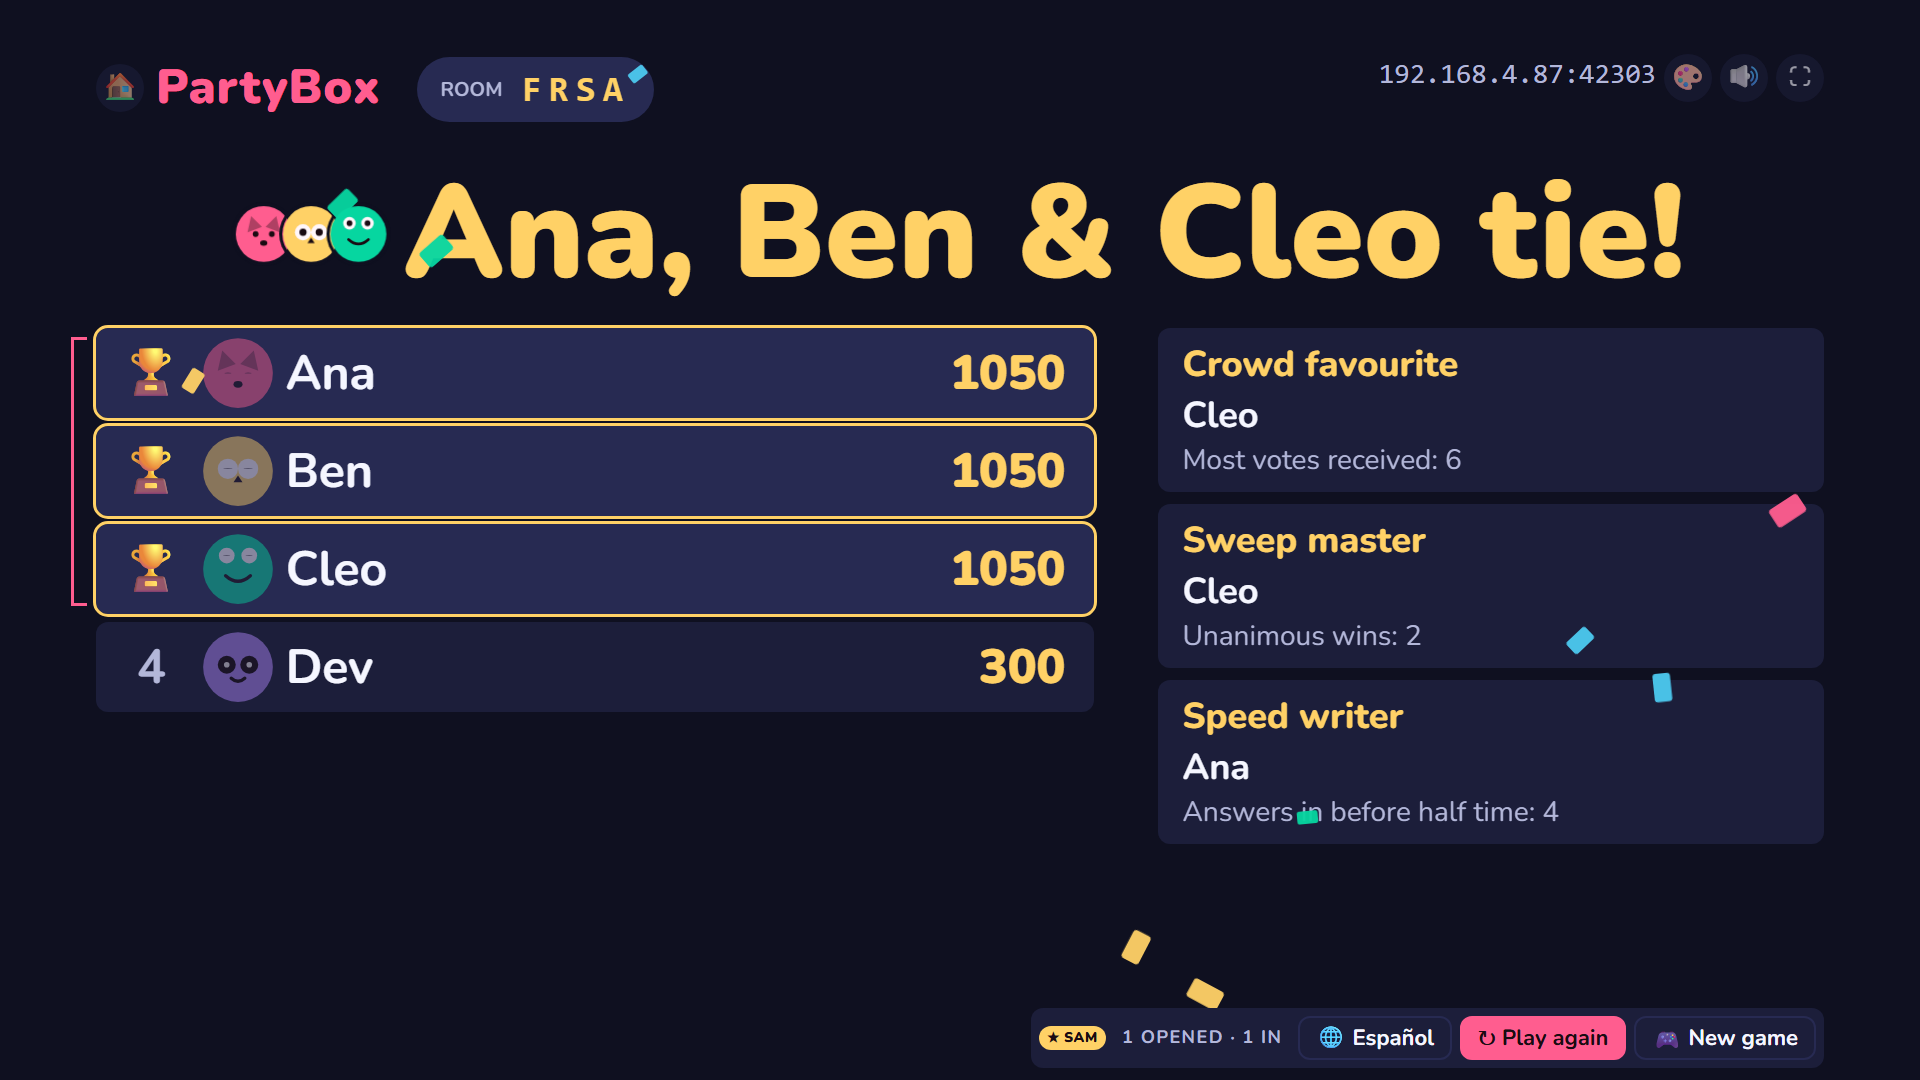
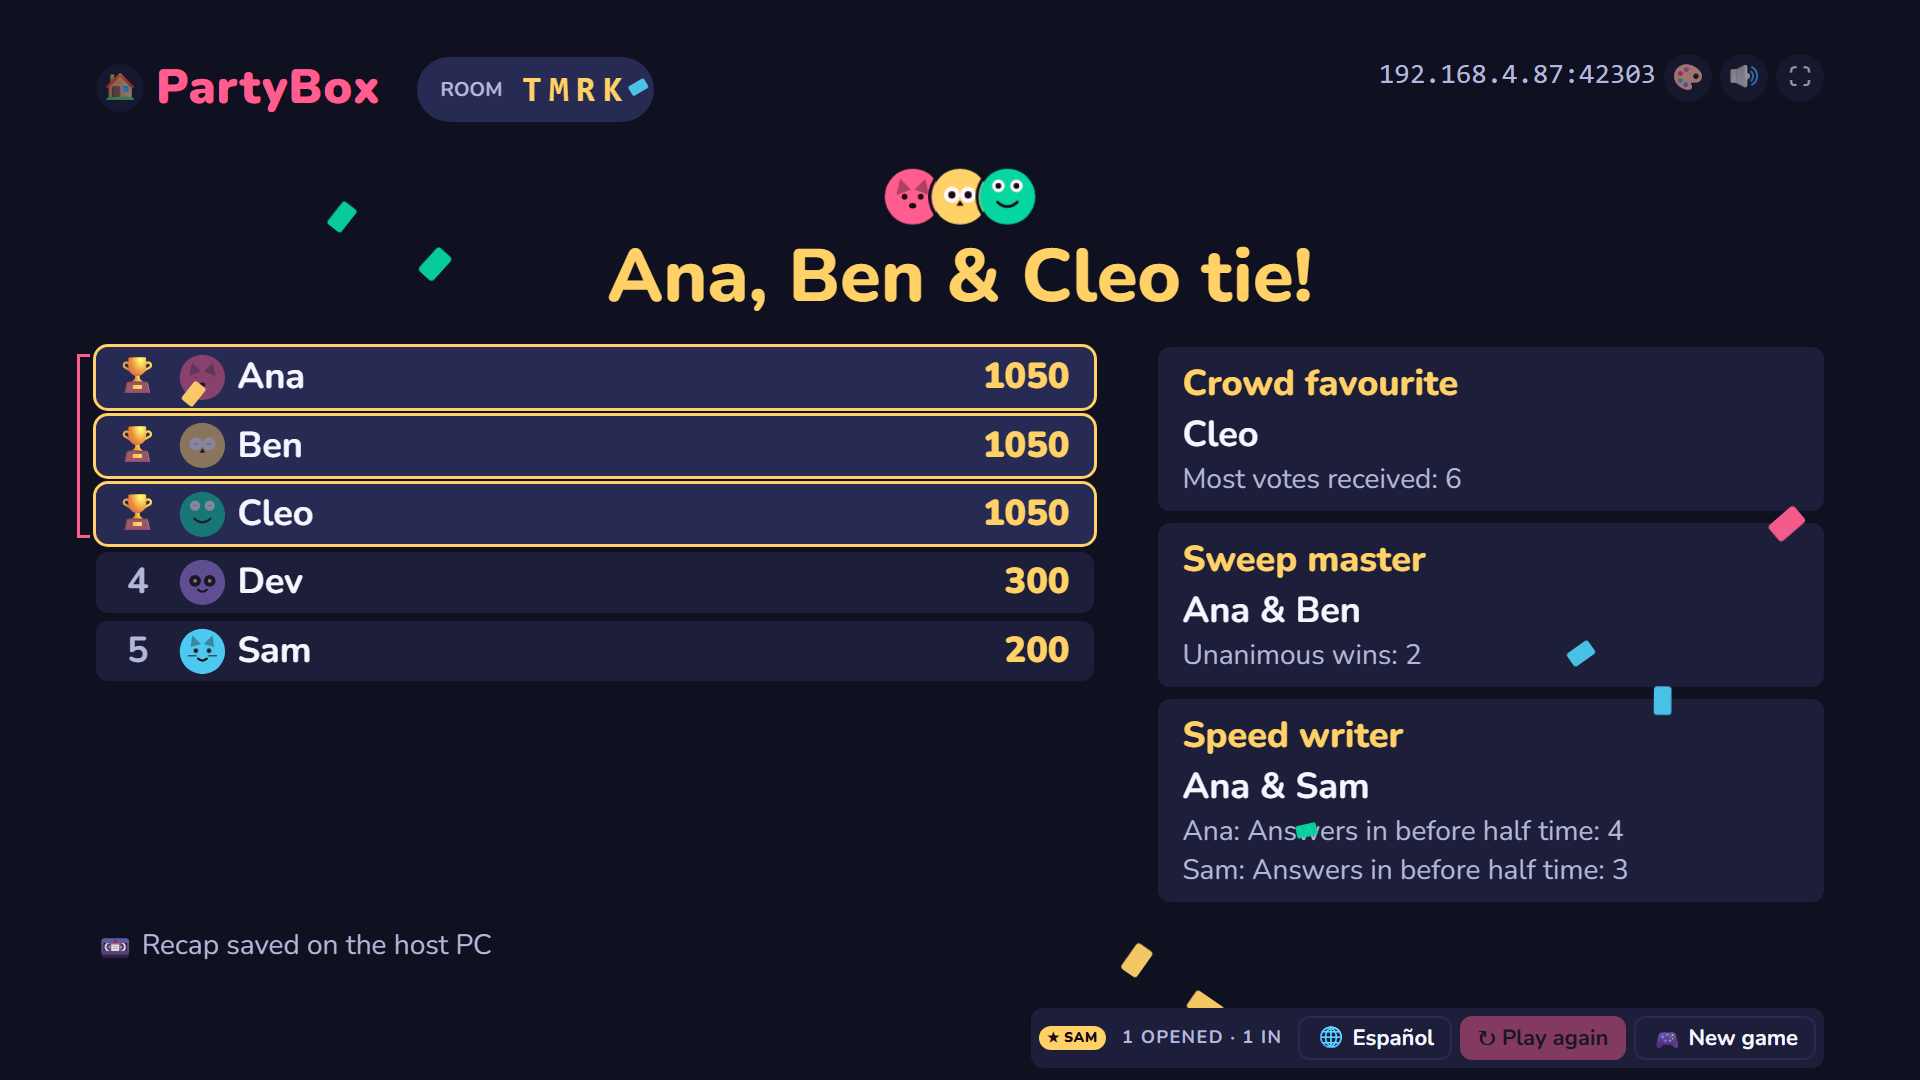
design(results): reviewer's DESIGN CHANGES on b093ccda
- A grouped award keeps its line only when every winner's matches ('Most
  votes received: 6' is one player's number); otherwise each winner keeps
  theirs (TV card lines, the phone's list).
- A shared award on your own phone says who shares it ('Your speed writer ·
  with Ana' / 'Tu pluma veloz · con Ana').
- Phone award chips are one row that scrolls sideways: wrapped rows pushed a
  three-way tie's last winner under the SE fold.
- Your own row is centred again once the title has settled (the place line
  and chips arrive after the first paint and shrank the body: 5th place sat
  under 'more below'); not if the player touched the list meanwhile. The
  screen-reader award list no longer adds a pixel under the board.
- TV: on a tie the faces sit centred above the headline, and 3+ tied names
  take the h1 size (a two-line Spanish tie pushed the last award under the
  host bar).
- POST /api/dev/results (dev only): a results screen as given, for captures
  of ties and shared awards no fixture produces; engine dev:results + test.
- capture-results-tie.ts uses it: 3-way tie, a shared award, an award whose
  line differs per winner, and Sam (this phone) sharing one.

diff --git a/packages/client/src/controller/Results.tsx b/packages/client/src/controller/Results.tsx
@@ -33,7 +33,28 @@ export function Results({ controller, room, me }: ResultsProps): JSX.Element {
   const lang = useLang();
   useEffect(() => {
     // I-456 B: to the middle of the list, not its nearest edge (which was half under the footer)
-    list.current?.querySelector('[aria-current="true"]')?.scrollIntoView({ block: 'center' });
+    const toMe = (): void =>
+      list.current?.querySelector('[aria-current="true"]')?.scrollIntoView({ block: 'center' });
+    toMe();
+    // Again once the sticky title has settled (the place line and the award chips arrive after the
+    // first paint and shrink the body): a 5th place otherwise sat under the "more below" fade. Not
+    // if the player has touched the list meanwhile.
+    let moved = false;
+    let scroller: HTMLElement | null = list.current?.parentElement ?? null;
+    while (scroller && !/(auto|scroll)/.test(getComputedStyle(scroller).overflowY))
+      scroller = scroller.parentElement;
+    const touched = (): void => {
+      moved = true;
+    };
+    const events = ['pointerdown', 'wheel', 'touchstart', 'keydown'] as const;
+    for (const e of events) scroller?.addEventListener(e, touched, { passive: true });
+    const again = setTimeout(() => {
+      if (!moved) toMe();
+    }, 700);
+    return () => {
+      clearTimeout(again);
+      for (const e of events) scroller?.removeEventListener(e, touched);
+    };
   }, []);
   const rows = scoreboardRows(room);
   const mine = myRow(room, me.id);
@@ -45,8 +66,14 @@ export function Results({ controller, room, me }: ResultsProps): JSX.Element {
   const awardsForMe = groupAwards(room.results?.results.awards ?? []).sort(
     (x, y) => Number(mineIn(y)) - Number(mineIn(x)),
   );
-  const winnersOf = (a: { playerIds: string[] }): string =>
-    joinNames(a.playerIds.map((id) => room.results?.players.find((p) => p.id === id)?.name ?? '?'));
+  const nameOf = (id: string): string =>
+    room.results?.players.find((p) => p.id === id)?.name ?? '?';
+  const winnersOf = (a: { playerIds: string[] }): string => joinNames(a.playerIds.map(nameOf));
+  // a shared award on my own phone says who shares it ("… with Kenji", tune-in's nit)
+  const sharedWith = (a: { playerIds: string[] }): string => {
+    const others = a.playerIds.filter((id) => id !== me.id).map(nameOf);
+    return others.length > 0 ? ` · ${t.results.sharedWith(joinNames(others))}` : '';
+  };
   // I-155 C: votes received per round, straight off the results payload.
   const myVotes = (
     (room.results?.results as { perRoundVotes?: Record<string, number[]> } | undefined)
@@ -82,6 +109,7 @@ export function Results({ controller, room, me }: ResultsProps): JSX.Element {
                     <strong>
                       {t.results.yourAward(serverText(a.title, lang, room.results?.gameId))}
                     </strong>
+                    {sharedWith(a)}
                   </span>
                 ) : (
                   <span key={`${a.id}|${a.title}`} className={styles.awardChip}>
@@ -153,9 +181,12 @@ export function Results({ controller, room, me }: ResultsProps): JSX.Element {
               <span>
                 {/* I-155 A: the screen already knows whose hand it is in — the award should too. */}
                 {mineIn(a) ? (
-                  <strong>
-                    {t.results.yourAward(serverText(a.title, lang, room.results?.gameId))}
-                  </strong>
+                  <>
+                    <strong>
+                      {t.results.yourAward(serverText(a.title, lang, room.results?.gameId))}
+                    </strong>
+                    {sharedWith(a)}
+                  </>
                 ) : (
                   <>
                     <strong>{serverText(a.title, lang, room.results?.gameId)}</strong> ·{' '}
@@ -164,7 +195,14 @@ export function Results({ controller, room, me }: ResultsProps): JSX.Element {
                 )}
               </span>
               <span className="pb-muted pb-caption">
-                {serverText(a.description, lang, room.results?.gameId)}
+                {a.description !== null
+                  ? serverText(a.description, lang, room.results?.gameId)
+                  : a.perPlayer
+                      .map(
+                        (x) =>
+                          `${nameOf(x.playerId)}: ${serverText(x.description, lang, room.results?.gameId)}`,
+                      ) // prettier-ignore
+                      .join(' · ')}
               </span>
             </li>
           ))}

diff --git a/packages/e2e/src/design/capture-results-tie.ts b/packages/e2e/src/design/capture-results-tie.ts
@@ -1,9 +1,11 @@
 // Stills of the results screens after a three-way tie (tune-in's review): every tied winner named
 // in the headline, the gold outline on each of them, and one award card per award with all its
-// winners. Wisecrack's `done` fixture, with Ana, Ben and Cleo set level, is loaded and the VIP ends
-// the game; the TV and a phone (SE, English and Spanish) are shot.
+// winners — including a shared award no game's fixture produces (so the results are put on the
+// room as given, /api/dev/results), one whose line differs per winner, and "with …" on the phone
+// of a player who shares one. TV + a phone (SE), English and Spanish. Always pass --build after a
+// client change: without it the prebuilt client is served.
 // Usage: tsx packages/e2e/src/design/capture-results-tie.ts [--out <dir>] [--port 42303] [--build]
-import { mkdirSync, readFileSync } from 'node:fs';
+import { mkdirSync } from 'node:fs';
 import { join } from 'node:path';
 import { parseArgs } from 'node:util';
 import { chromium } from 'playwright';
@@ -46,15 +48,42 @@ async function run(browser: Browser, url: string, api: DevApi, lang: string): Pr
   await page.waitForSelector('[data-surface="controller"]');
   const sam: Phone = { device: 'iphone-se', context: page.context(), page, name: 'Sam', playerId: null }; // prettier-ignore
   await joinViaForm(sam, api, { avatarIndex: 2 });
-  await api.bots(3, 'idle');
   try {
-    await api.post('/api/dev/start', { gameId: 'wisecrack', seed: 4 });
-    const fixture = JSON.parse(
-      readFileSync(join(REPO_ROOT, 'games', 'wisecrack', 'fixtures', 'done.json'), 'utf8'),
-    ) as { scores: Record<string, number> };
-    fixture.scores = { 'p-ana': 1050, 'p-ben': 1050, 'p-cleo': 1050, 'p-dev': 300 };
-    await api.post('/api/dev/load-state', { gameId: 'wisecrack', state: fixture });
-    await api.post('/api/dev/vip', { action: 'end' });
+    const players = [
+      ['p-ana', 'Ana', 'fox'],
+      ['p-ben', 'Ben', 'owl'],
+      ['p-cleo', 'Cleo', 'frog'],
+      ['p-dev', 'Dev', 'panda'],
+    ].map(([id, name, avatarId]) => ({ id, name, avatarId }));
+    // Sam (this phone) shares an award too, so the phone shows "… with Ana"
+    const state = (await api.state()) as { room?: { vipId?: string | null } | null };
+    const me = state.room?.vipId ?? 'p-sam';
+    players.push({ id: me, name: 'Sam', avatarId: 'cat' });
+    const award = (id: string, title: string, description: string, playerId: string) => ({ id, title, description, playerId }); // prettier-ignore
+    await api.post('/api/dev/results', {
+      results: {
+        gameId: 'wisecrack',
+        players,
+        results: {
+          scores: { 'p-ana': 1050, 'p-ben': 1050, 'p-cleo': 1050, 'p-dev': 300, [me]: 200 },
+          ranking: [
+            { playerId: 'p-ana', score: 1050, rank: 1 },
+            { playerId: 'p-ben', score: 1050, rank: 1 },
+            { playerId: 'p-cleo', score: 1050, rank: 1 },
+            { playerId: 'p-dev', score: 300, rank: 4 },
+            { playerId: me, score: 200, rank: 5 },
+          ],
+          winnerIds: ['p-ana', 'p-ben', 'p-cleo'],
+          awards: [
+            award('crowd', 'Crowd favourite', 'Most votes received: 6', 'p-cleo'),
+            award('sweep', 'Sweep master', 'Unanimous wins: 2', 'p-ana'),
+            award('sweep', 'Sweep master', 'Unanimous wins: 2', 'p-ben'),
+            award('speed', 'Speed writer', 'Answers in before half time: 4', 'p-ana'),
+            award('speed', 'Speed writer', 'Answers in before half time: 3', me),
+          ],
+        },
+      },
+    });
     await settle(4500); // the board lands, the headline and awards follow
     await tv.screenshot({ path: join(OUT, `${lang}-tv-results.png`) });
     await page.screenshot({ path: join(OUT, `${lang}-iphone-se-results.png`) });

diff --git a/packages/client/src/tv/TvResults.tsx b/packages/client/src/tv/TvResults.tsx
@@ -73,7 +73,7 @@ export function TvResults({ room, lastView = null }: TvResultsProps): JSX.Elemen
     // (review-loop #184).
     <Stage>
       <div
-        className={`${styles.hero} ${crowned ? styles.crowned : 'pb-enter'}`}
+        className={`${styles.hero} ${crowned ? styles.crowned : 'pb-enter'} ${tied.length > 0 ? styles.tiedHero : ''}`}
         data-screen="results"
       >
         {winner ? <Avatar avatarId={winner.avatarId} size={72} /> : null}
@@ -86,7 +86,9 @@ export function TvResults({ room, lastView = null }: TvResultsProps): JSX.Elemen
             ))}
           </span>
         ) : null}
-        <BigText level={many || keepBoard ? 'h1' : 'display'} tone="accent">
+        {/* three or more tied names take the h1 size: at display size a Spanish tie wrapped to
+            two lines and pushed the last award under the host bar */}
+        <BigText level={many || keepBoard || tied.length >= 3 ? 'h1' : 'display'} tone="accent">
           {winnerLine(room, scoreless) || t.results.title}
         </BigText>
         {nobodyScored(room) && !scoreless ? (
@@ -124,7 +126,15 @@ export function TvResults({ room, lastView = null }: TvResultsProps): JSX.Elemen
                 <li key={`${a.id}|${a.title}`} className={styles.award}>
                   <span className={styles.awardTitle}>{said(a.title)}</span>
                   <span className={styles.awardWho}>{joinNames(a.playerIds.map(nameOf))}</span>
-                  <span className="pb-muted pb-caption">{said(a.description)}</span>
+                  {a.description !== null ? (
+                    <span className="pb-muted pb-caption">{said(a.description)}</span>
+                  ) : (
+                    a.perPlayer.map((x) => (
+                      <span key={x.playerId} className="pb-muted pb-caption">
+                        {nameOf(x.playerId)}: {said(x.description)}
+                      </span>
+                    ))
+                  )}
                 </li>
               ))}
             </ul>

diff --git a/packages/client/src/controller/results-rows.ts b/packages/client/src/controller/results-rows.ts
@@ -103,12 +103,15 @@ export function joinNames(names: string[]): string {
 }
 
 /** One award, everyone who won it: a tie gives the award to each tied player, and a card per
- *  player repeated the award (and collided on its key, echo/imposter play-tests). */
+ *  player repeated the award (and collided on its key, echo/imposter play-tests). A description
+ *  often carries the winner's own number ("Most votes received: 6"): it stays the card's line only
+ *  when every winner's reads the same, else each winner keeps theirs (`perPlayer`). */
 export interface AwardGroup {
   id: string;
   title: string;
-  description: string;
+  description: string | null;
   playerIds: string[];
+  perPlayer: { playerId: string; description: string }[];
 }
 
 export function groupAwards(awards: readonly GameAward[]): AwardGroup[] {
@@ -116,9 +119,13 @@ export function groupAwards(awards: readonly GameAward[]): AwardGroup[] {
   for (const a of awards) {
     const key = `${a.id}|${a.title}`;
     const group = groups.get(key);
-    if (!group)
-      groups.set(key, { id: a.id, title: a.title, description: a.description, playerIds: [a.playerId] }); // prettier-ignore
-    else if (!group.playerIds.includes(a.playerId)) group.playerIds.push(a.playerId);
+    if (!group) {
+      groups.set(key, { id: a.id, title: a.title, description: a.description, playerIds: [a.playerId], perPlayer: [{ playerId: a.playerId, description: a.description }] }); // prettier-ignore
+    } else if (!group.playerIds.includes(a.playerId)) {
+      group.playerIds.push(a.playerId);
+      group.perPlayer.push({ playerId: a.playerId, description: a.description });
+      if (group.description !== a.description) group.description = null;
+    }
   }
   return [...groups.values()];
 }

diff --git a/packages/engine/src/room.ts b/packages/engine/src/room.ts
@@ -220,6 +220,20 @@ function dispatch(room: RoomState, event: RoomEvent, deps: EngineDeps): ApplyRes
         effects: [{ type: 'push' }],
       };
     }
+    case 'dev:results': {
+      // design captures only: the room's results as given, if they look like results
+      const r = event.results as Partial<RoomState['results']> | null;
+      const ok =
+        !!r && typeof r.gameId === 'string' && Array.isArray(r.players) &&
+        !!r.results && Array.isArray(r.results.ranking) && Array.isArray(r.results.winnerIds); // prettier-ignore
+      if (!ok || !deps.games[(r as { gameId: string }).gameId])
+        return { room, effects: [{ type: 'log', level: 'warn', text: 'dev:results rejected' }] };
+      const results = r as NonNullable<RoomState['results']>;
+      return {
+        room: { ...room, status: 'results', game: null, selectedGameId: results.gameId, results },
+        effects: [{ type: 'push' }],
+      };
+    }
     case 'speech':
       // ADR-045: the host's speech service finished a reading the game asked for.
       if (!room.game || room.status !== 'playing') return { room, effects: [] };

diff --git a/packages/client/src/controller/Results.module.css b/packages/client/src/controller/Results.module.css
@@ -58,6 +58,10 @@
 /* ── I-456 C: the long awards list stays for screen readers only. */
 .srOnly {
   position: absolute;
+  /* pinned to the top corner: at its static place under the board, its 1 px made the scroller
+     say "more below" under your own last row */
+  top: 0;
+  left: 0;
   width: 1px;
   height: 1px;
   overflow: hidden;
@@ -66,14 +70,24 @@
 }
 
 /* ── I-456 C: the awards as a row of chips under your place. */
+/* One row that scrolls sideways: three wrapped rows of chips pushed a three-way tie's last winner
+   under the SE's fold while the headline named them (reviewer, results-ties). */
 .awardChips {
   display: flex;
-  flex-wrap: wrap;
-  justify-content: center;
+  flex-wrap: nowrap;
+  justify-content: safe center;
   gap: var(--pb-space-1);
   margin-top: var(--pb-space-2);
+  overflow-x: auto;
+  scrollbar-width: none;
+  overscroll-behavior-x: contain;
+}
+.awardChips::-webkit-scrollbar {
+  display: none;
 }
 .awardChip {
+  flex-shrink: 0;
+  white-space: nowrap;
   font-size: var(--pb-font-caption);
   font-weight: 600;
   padding: 3px 10px;

diff --git a/packages/engine/src/room.test.ts b/packages/engine/src/room.test.ts
@@ -163,4 +163,18 @@ describe('room', () => {
     expect(r.room.status).toBe('playing');
     expect(r.room.game!.state.phase.startedAt).toBe(room.game!.state.phase.startedAt + 10);
   });
+
+  it('dev:results puts a results screen on the room as given; a bad shape is refused', () => {
+    const room = roomWith(2);
+    const results = {
+      gameId: 'fake',
+      players: [],
+      results: { scores: {}, ranking: [], winnerIds: [], awards: [] },
+    };
+    const shown = applyRoomEvent(room, { type: 'dev:results', now: T0, results }, deps).room;
+    expect(shown.status).toBe('results');
+    expect(shown.results).toEqual(results);
+    const bad = applyRoomEvent(room, { type: 'dev:results', now: T0, results: { gameId: 'fake' } }, deps); // prettier-ignore
+    expect(bad.room).toBe(room);
+  });
 });

diff --git a/packages/server/src/dev-api.ts b/packages/server/src/dev-api.ts
@@ -193,6 +193,13 @@ export function registerDevApi(app: FastifyInstance, options: DevApiOptions): vo
     return { ok: true, effects: result?.effects ?? [] };
   });
 
+  // Design captures: put a results screen on the room as given (a three-way tie, a shared award).
+  app.post('/api/dev/results', async (req) => {
+    const body = (req.body ?? {}) as { results?: unknown };
+    const result = host.dispatch(roomOf(req.query), { type: 'dev:results', results: body.results });
+    return { ok: !result?.effects.some((e) => e.type === 'log'), status: host.get(roomOf(req.query))?.status }; // prettier-ignore
+  });
+
   app.get('/api/dev/state', async (req) => {
     const code = roomOf(req.query);
     const room = host.get(code);

diff --git a/packages/client/src/controller/results-rows.test.ts b/packages/client/src/controller/results-rows.test.ts
@@ -188,6 +188,18 @@ describe('awards', () => {
       ['sharp', ['A', 'B']],
       ['clear', ['C']],
     ]);
+    expect(groups[0]?.description).toBe('d');
+  });
+  it('a line that differs per winner stays with its winner', () => {
+    const groups = groupAwards([
+      { id: 'eye', title: 'Bullseye', description: 'Bullseyes: 1', playerId: 'A' },
+      { id: 'eye', title: 'Bullseye', description: 'Bullseyes: 2', playerId: 'B' },
+    ]);
+    expect(groups[0]?.description).toBeNull();
+    expect(groups[0]?.perPlayer.map((x) => x.description)).toEqual([
+      'Bullseyes: 1',
+      'Bullseyes: 2',
+    ]);
   });
   it('names read like a sentence', () => {
     expect(joinNames(['Sam'])).toBe('Sam');

diff --git a/packages/engine/src/types.ts b/packages/engine/src/types.ts
@@ -137,6 +137,8 @@ export type RoomEvent =
   | { type: 'input'; now: number; playerId: string; input: unknown; vip?: boolean }
   | { type: 'tick'; now: number }
   | { type: 'dev:loadState'; now: number; gameId: string; state: unknown; settings?: Settings }
+  /** Design captures: a results screen as given (ties, shared awards no fixture produces). */
+  | { type: 'dev:results'; now: number; results: unknown }
   | { type: 'dev:gameEvent'; now: number; event: unknown }
   /** ADR-045: a reading the running game asked for is ready (or failed: ms -1). */
   | { type: 'speech'; now: number; key: string; ms: number };

diff --git a/packages/client/src/tv/TvResults.module.css b/packages/client/src/tv/TvResults.module.css
@@ -74,6 +74,13 @@
   animation: global(pb-crown) var(--pb-motion-slow) var(--pb-ease) both;
 }
 
+/* A tie: the faces sit centred above the headline — beside a two-line Spanish headline they
+   floated far left, detached from it (reviewer, results-ties). */
+.crowned.tiedHero {
+  flex-direction: column;
+  gap: var(--pb-space-2);
+}
+
 /* ── I-025 C: a photo finish — the board under the winner sits at 55 % for a beat and comes back
    over 1.2 s (two slow beats, so it collapses with the tokens; opacity only — the winner's own
    row keeps its highlight on the board). */

diff --git a/packages/client/src/i18n-en.ts b/packages/client/src/i18n-en.ts
@@ -132,6 +132,8 @@ export const en = {
     /** Two tied winners' names, for `winners`. */
     pair: (a: string, b: string) => `${a} & ${b}`,
     /** Three tied winners, all named ("Abuela, Kenji & Lucía tie!"). */
+    /** A shared award on your own phone: who you share it with. */
+    sharedWith: (names: string) => `with ${names}`,
     tieNamed: (names: string) => `${names} tie!`,
     tieAmong: (names: string, others: number) =>
       `${names} & ${others} ${others === 1 ? 'other' : 'others'} tie!`,
